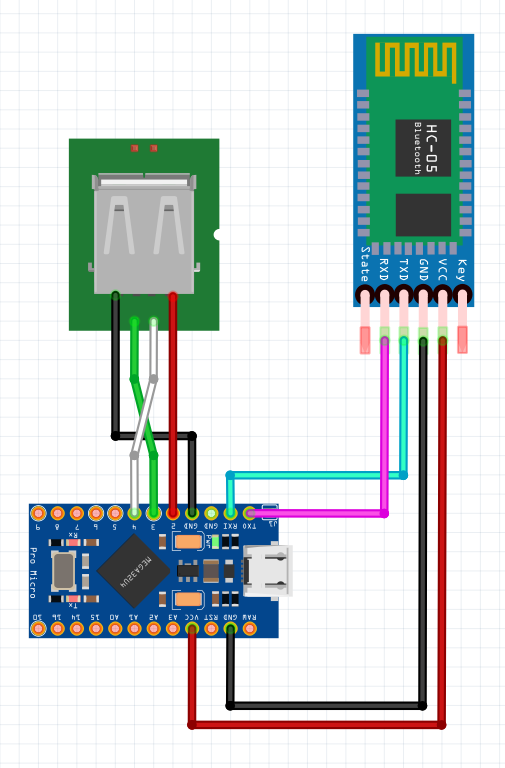
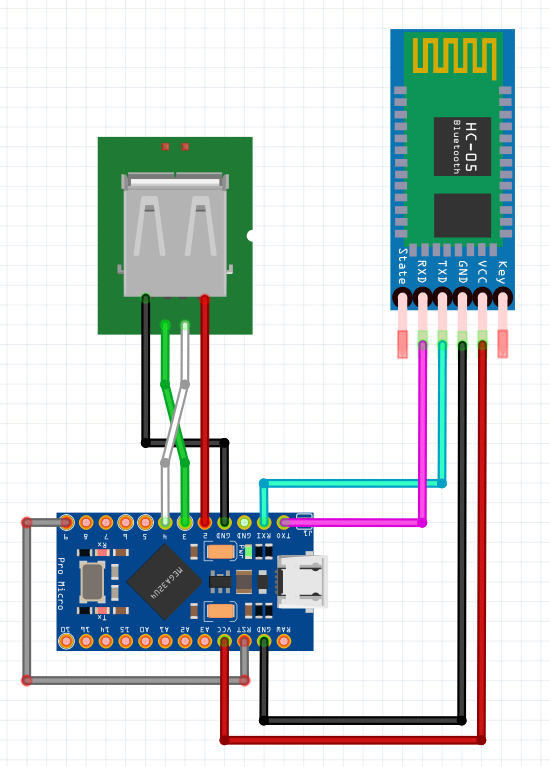
I forgot a wire in the wiring diagram

Changed region(s): [[0.0297, 0.03, 0.9505, 0.9896]]

diff --git a/README.md b/README.md
@@ -12,12 +12,14 @@ You can find the wiring diagram to make your own, I mounted the component the wa
 
 <img src="projectDiagram_bb.png" height="300"><img src="Pictures/sideView.jpg" height="300" style="margin-left:10px">
 
+**/!\\** _upload your sketch to the board before connecting pin 9 to RST, else it might get stuck in reset mode because pin 9 is LOW_
 
-and in the more vertical way possible so it ressembles a dongle
+
+I as well tried to assemble the component in the more vertical way possible so it ressembles a dongle
 
 <img src="Pictures/frontView.jpg" height="600">
 
-I also 3d printed a case just the correct size to secure it in
+I also 3d printed a case just the correct size to secure it in (stl file included in repo)
 
 <img src="Pictures/boxOpen.jpg" height="300"><img src="Pictures/boxClosed.jpg" height="300" style="margin-left:10px">
 
